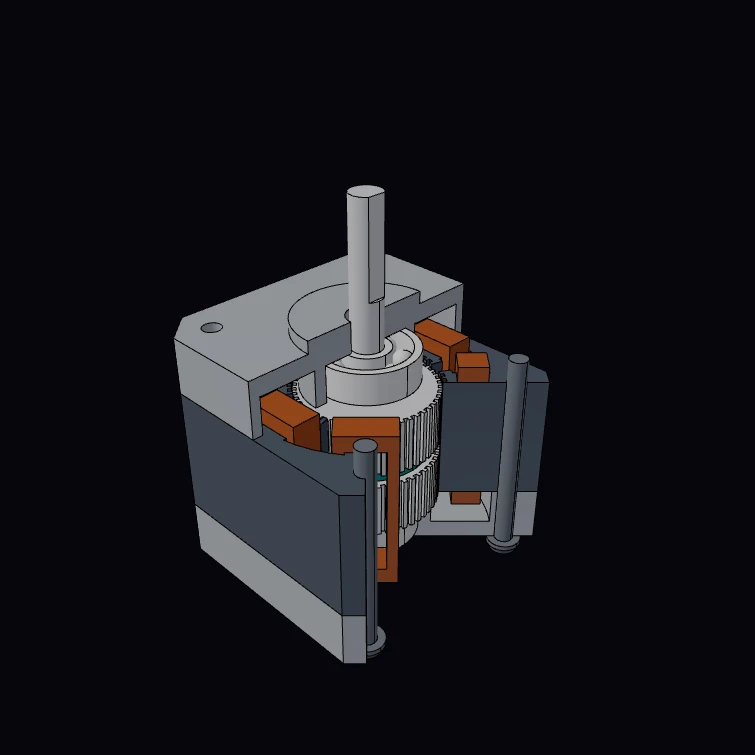
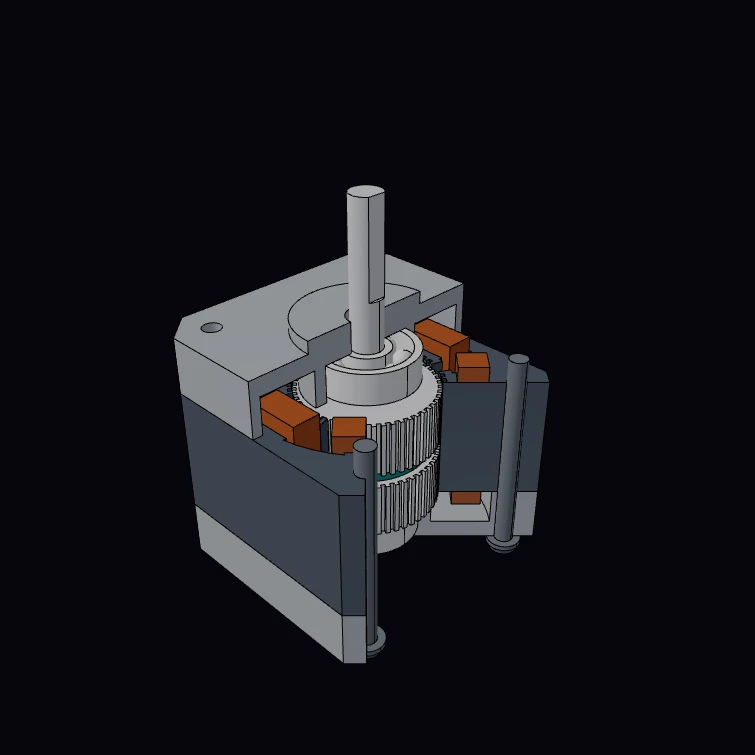
fix(playground): cut each stepper winding at the cutaway and keep the fan guard to two rings or more

Changed region(s): [[0.457, 0.5483, 0.5483, 0.7921]]

diff --git a/apps/playground/src/lib/examples/mechanical.ts b/apps/playground/src/lib/examples/mechanical.ts
@@ -618,8 +618,9 @@ function guard({ rings = 5, lift = 0.5, fan = true }: GuardParams = {}) {
   // Rings: evenly spaced circles of wire.
   const rMin = INSIDE / 2 + rr;
   const rMax = OUTSIDE / 2 - rr;
-  const step = (rMax - rMin) / (rings - 1);
-  const ringSet = Array.from({ length: rings }, (_, i) => own(torus(rMin + i * step, rr, { at: [0, 0, zRing] })));
+  const count = Math.max(2, Math.round(rings)); // one ring has no spacing
+  const step = (rMax - rMin) / (count - 1);
+  const ringSet = Array.from({ length: count }, (_, i) => own(torus(rMin + i * step, rr, { at: [0, 0, zRing] })));
 
   // Rib: one wire from an eye toward the centre, around a bend, and out to the next eye.
   // It runs under the rings and steps down to the mounting face near each eye.
@@ -1652,7 +1653,11 @@ function stepper({ cutaway = 90, length = 38, steps = 0 }: StepperParams = {}) {
   const open = (s: Shape, tool = wedge): Shape => (cutaway > 0 ? (unwrap(cut(s, tool)) as Shape) : (unwrap(clone(s)) as Shape));
   const span = 19; // half angle that one coil covers
   const off = (a: number): number => Math.abs(((a + 180) % 360) - 180);
-  const shown = coils.filter((_, k) => cutaway <= 0 || off(coilAngles[k]!) + span > cutaway / 2).map((s, k) => (off(coilAngles[k]!) - span < cutaway / 2 ? own(open(s)) : s));
+  const shown = coils.flatMap((s, k) => {
+    const angle = off(coilAngles[k]!);
+    if (cutaway > 0 && angle + span <= cutaway / 2) return [];
+    return [angle - span < cutaway / 2 ? own(open(s)) : s];
+  });
 
   return {
     caps: compound([own(open(frontCap, wide)), own(open(rearCap))]) as Shape, stack: open(stack), coils: compound(shown) as Shape,
